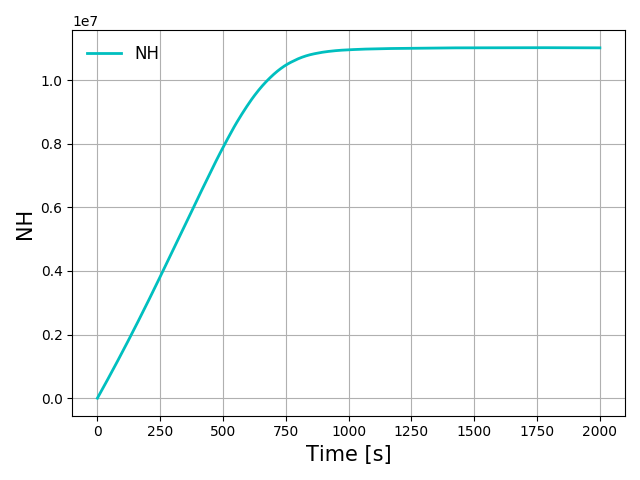
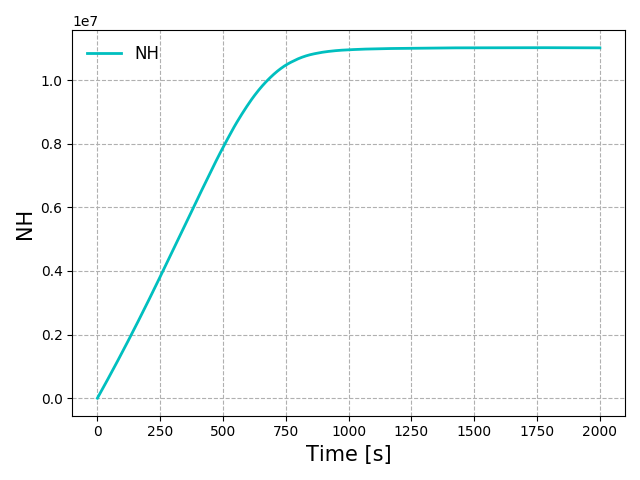
an update: minor

diff --git a/default/ode_model_simulation.py b/default/ode_model_simulation.py
@@ -55,7 +55,7 @@ class ODEMODEL:
 
         # luminal concentrations parameters
         self.initpH=initpH  # pH [pH units]
-        self.initk= 0.005    # K+ [M]
+        self.initk= 0.005   # K+ [M]
         self.initcl=0.11    # Cl- [M]
         self.initna=0.145   # Na+ [M]
         self.initH=initH    # total H+ [M]
@@ -64,10 +64,10 @@ class ODEMODEL:
         self.initpsi_total=initpsi_total
 
         # kinetic parameters
-        self.P=6.0e-5         # H+ permeability
-        self.Pcl= 0     # Cl+ permeability
-        self.Pk= 0      # K+ permeability
-        self.Pna= 0     # Na+ permeability
+        self.P=6.0e-5       # H+ permeability
+        self.Pcl= 0         # Cl+ permeability
+        self.Pk= 0          # K+ permeability
+        self.Pna= 0         # Na+ permeability
         self.Pw=0           # Water permeability
         self.N_VATP=300     # Number of V-ATPases
         self.N_CLC=5000     # Number of ClC-7 antiporters
@@ -318,7 +318,7 @@ class ODEMODEL:
         ## Modified Cytoplasmic Surface Concentrations
         Cle, Ke, Nae, pHe = self.GetMCytoSurfConcs        
         ## Modified Luminal Surface Concentrations
-        Cli, Ki, Nai, pHi = self.GetMLuminalSurfConcs(Cl, K, Na, pH) ### lo8z
+        Cli, Ki, Nai, pHi = self.GetMLuminalSurfConcs(Cl, K, Na, pH) ###  
 
         ## get psi
         psi = self.F*(V*(H+(K+Na)-Cl)-(self.B*self.initV))/self.cap
@@ -348,10 +348,9 @@ class ODEMODEL:
 
 
     def GetPlot(self, time, tdq, color=None, label=None, xlabel=True, ylabel=True, figname=None):
-
     
         plt.plot(time, tdq, linestyle='-', linewidth=2, color=color, label=label)
-        plt.grid()
+        plt.grid(linestyle='--',alpha=2)
         plt.legend(loc="best", prop={'size':12}, frameon=False)        
         plt.xlabel(xlabel, fontsize=15)
         plt.ylabel(ylabel, fontsize=15)
@@ -370,19 +369,13 @@ class ODEMODEL:
         self.Q=self.SetOsmoticBalance
         # set inital conditions
         pH, Ncl, NK, Nna, NH, V = object.InitConditions  
+        print("initial conditions:", pH, Ncl, NK, Nna, NH, V)
 
-        print(pH, Ncl, NK, Nna, NH, V)
-
-        TIMEINTERVAL = [self.STARTTIME, self.STOPTIME]
-        #TIMEINTERVAL = (self.STARTTIME, self.STOPTIME)
-        ##TIMEINTERVAL = [self.STARTTIME, self.STOPTIME, self.DT]
-        #time = np.linspace(0,self.STOPTIME,1000)
-        time = np.arange(0, 2000,0.02)
-
-        # solve ode
+        TIMEINTERVAL = [self.STARTTIME, self.STOPTIME] 
+        time = np.arange(self.STARTTIME, self.STOPTIME,self.DT)
+        
+        # solve ode using solve_ivp
         SOL = solve_ivp(fun=object.TDQ, t_span=TIMEINTERVAL, y0=[pH, Ncl, NK, Nna, NH, V], t_eval=time, method='BDF')
-
-
  
         # get TDQ plots
         object.GetPlot(SOL.t, SOL.y[0, :], color="darkorange", label="pH", xlabel="Time [s]", ylabel="pH", figname="pH")        

diff --git a/pcl-on/ode_model_simulation.py b/pcl-on/ode_model_simulation.py
@@ -334,7 +334,7 @@ class ODEMODEL:
         ## Modified Cytoplasmic Surface Concentrations
         Cle, Ke, Nae, pHe = self.GetMCytoSurfConcs        
         ## Modified Luminal Surface Concentrations
-        Cli, Ki, Nai, pHi = self.GetMLuminalSurfConcs(Cl, K, Na, pH) ### lo8z
+        Cli, Ki, Nai, pHi = self.GetMLuminalSurfConcs(Cl, K, Na, pH) ###  
 
         ## get psi
         psi = self.F*(V*(H+(K+Na)-Cl)-(self.B*self.initV))/self.cap 
@@ -387,25 +387,15 @@ class ODEMODEL:
         self.Pump_flux = object.Interpolate
         self.B = self.GetDonnanParticles
         self.Q=self.SetOsmoticBalance
+        
         # set inital conditions
         pH, Ncl, NK, Nna, NH, V = object.InitConditions  
-        print("initial conditions::", pH, Ncl, NK, Nna, NH, V)
+        print("initial conditions:", pH, Ncl, NK, Nna, NH, V)
 
-        #TIMEINTERVAL = [self.STARTTIME, self.STOPTIME]
-        #TIMEINTERVAL = (self.STARTTIME, self.STOPTIME)
-        ##TIMEINTERVAL = [self.STARTTIME, self.STOPTIME, self.DT]
-        #time = np.linspace(0,self.STOPTIME,1000)
-
-
-        time = np.arange(0, 2000, 0.02)
-        #time = np.linspace(0,self.STOPTIME,2000)
+        time = np.arange(self.STARTTIME, self.STOPTIME,self.DT) 
         y0=[pH, Ncl, NK, Nna, NH, V]
         # solve ode
-        SOL = odeint(object.TDQ, y0, time)
-
-        #print("SOL[:,0]", SOL[:,0], len(SOL[:,0]) ) 
-        #print(time) 
-       
+        SOL = odeint(object.TDQ, y0, time)       
         
         # get TDQ plots
         object.GetPlot(time, SOL[:,0], color="darkorange", label="pH", xlabel="Time [s]", ylabel="pH", figname="pH")          
